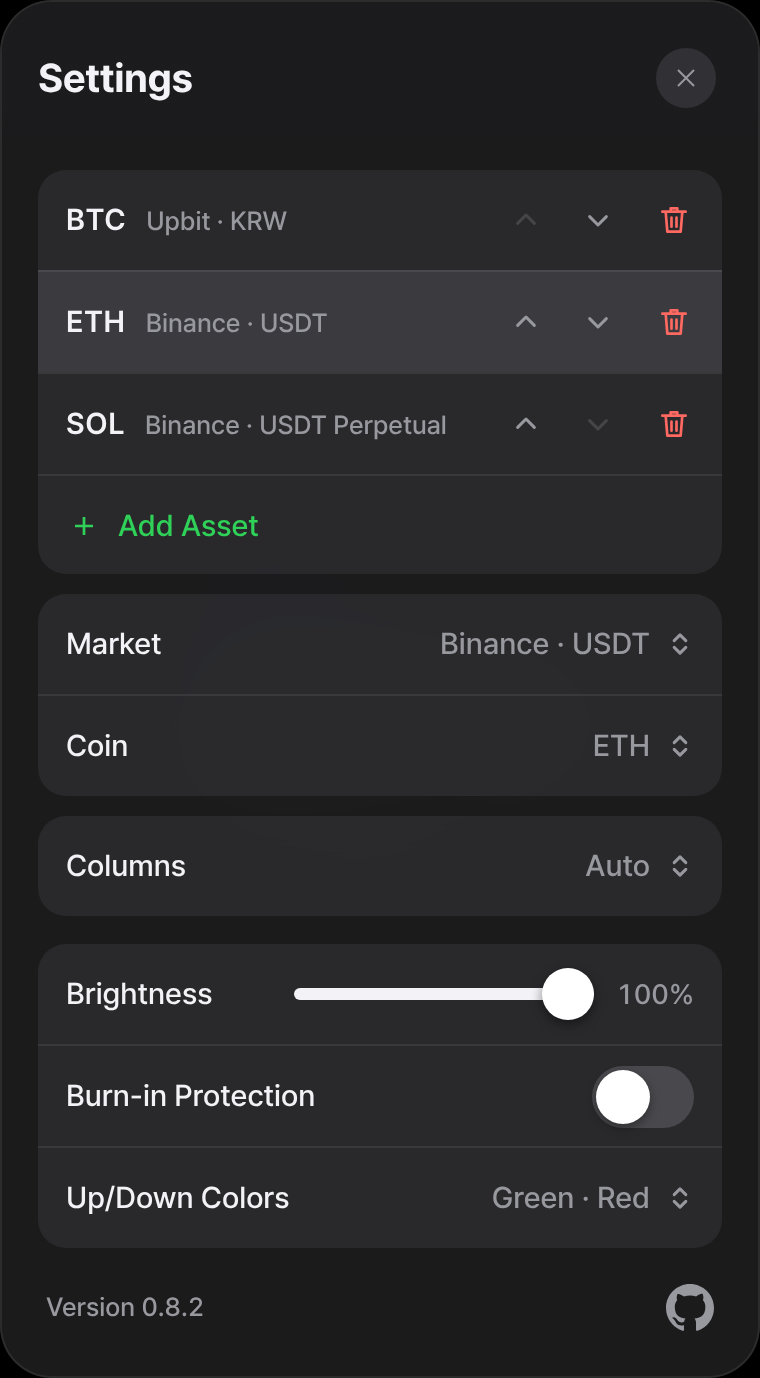
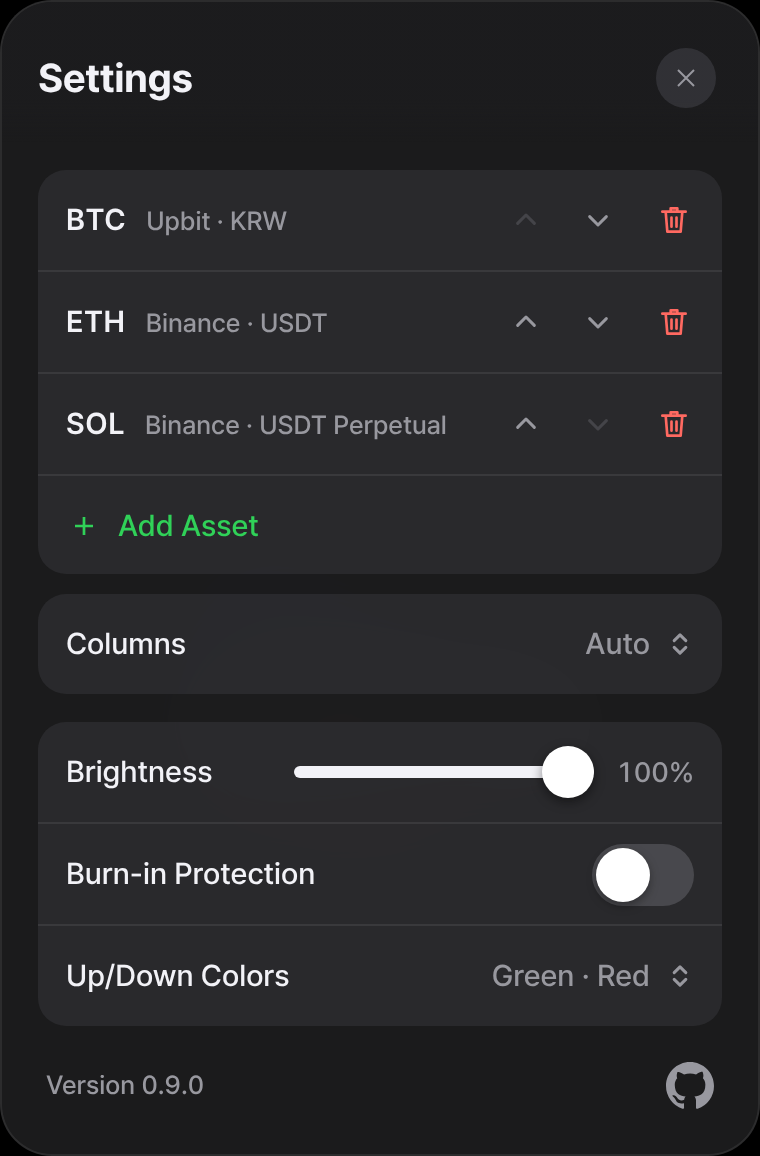
Paraglide 3 and Playwright 1.65, latest stable; settings screenshots folded
Dependencies follow their latest stable releases: Paraglide JS 3.2.2
(and the message-format plugin 4.6.0) and Playwright 1.65.1. Paraglide 3
compiles into virtual modules during the Vite build; the unit tests
still compile to src/paraglide first.

The touch-tip browser check now keeps a margin around its four seconds,
since the test clock also moves with real time. The settings
screenshots show the panel as it normally opens, with the market and
coin rows folded.

Claude-Session: https://claude.ai/code/session_014Sd3YL2WJ32HMbCc4VV95J

diff --git a/tests/e2e/run.js b/tests/e2e/run.js
@@ -898,9 +898,10 @@ async function statusTipOnTouch(browser, base) {
   const tapDot = () => page.touchscreen.tap(dot.x + dot.width / 2, dot.y + dot.height / 2);
   assert.equal(await shown(), false);
   // A tap opens the detail; it closes by itself after a few seconds.
+  // (The test clock also moves with real time, so the checks keep a margin around the four seconds.)
   await tapDot(); assert.equal(await shown(), true);
-  await page.clock.runFor(3900); assert.equal(await shown(), true);
-  await page.clock.runFor(200); assert.equal(await shown(), false, 'closes by itself');
+  await page.clock.runFor(3000); assert.equal(await shown(), true);
+  await page.clock.runFor(1200); assert.equal(await shown(), false, 'closes by itself');
   // A second tap closes it at once.
   await tapDot(); assert.equal(await shown(), true);
   await tapDot(); assert.equal(await shown(), false, 'second tap closes');

diff --git a/docs/development.md b/docs/development.md
@@ -6,7 +6,7 @@ How to use the board is in the [user guide](guide.md). This document is for chan
 
 ## Development
 
-Node.js 22 or later.
+Node.js 22 or later. Dependencies are kept at their latest stable releases.
 
 ~~~bash
 npm install
@@ -51,7 +51,7 @@ Svelte 5 and Vite. It is a single page, so there is no SvelteKit.
 | `src/app.css` | Styles |
 | `messages/ko.json`, `messages/en.json` | Text for settings and the like (Korean, English) |
 | `project.inlang/settings.json` | Translation settings (languages, base language, message format) |
-| `src/paraglide/` | Code generated from the messages at build time (not in git; do not edit) |
+| `src/paraglide/` | Code generated from the messages by `npm run i18n`, for the unit tests (not in git; do not edit) |
 
 The modules in `src/lib` are plain JavaScript that knows nothing of Svelte or the DOM, and have unit tests.
 
@@ -89,13 +89,13 @@ The modules in `src/lib` are plain JavaScript that knows nothing of Svelte or th
 
 ## Translation
 
-The settings panel, state descriptions and messages are translated with [Paraglide JS](https://github.com/opral/paraglide-js) (2.x, MIT). Messages live under keys named by meaning in `messages/ko.json` and `messages/en.json`, and are compiled into functions at build time (`src/paraglide/`), so only the messages in use ship. Code calls them as `m.settings_title()` or `m.status_retry({ reason, seconds })`.
+The settings panel, state descriptions and messages are translated with [Paraglide JS](https://github.com/opral/paraglide-js) (3.x, MIT). Messages live under keys named by meaning in `messages/ko.json` and `messages/en.json`, and are compiled into functions at build time, so only the messages in use ship. Code calls them as `m.settings_title()` or `m.status_retry({ reason, seconds })`.
 
 - **Choosing the language**: the device's preferred languages (`navigator.languages`); English when neither Korean nor English is found. Nothing is stored and there is no setting.
 - **Not translated**: the board (tickers, prices, `KRW`, `USDT`, `PERP`, `1D`, `24H`, the status dot's words) is the same in every language, except how won prices are written (see the price format above).
 - **Plurals**: text that changes with a number, like `1 second` and `2 seconds`, uses a `plural` selector in the message file.
 - **Changing or adding messages**: change both files. `npm test` checks that both have the same keys and values, that none is empty and that the English has no Korean in it; the browser tests check, on an English device, that no Korean is left in the settings panel and that no choice is cut off.
-- **Compiling**: `npm run build` and `npm run dev` compile through the Vite plugin; `npm test` runs `npm run i18n` first. The message-format plugin is fetched from jsDelivr, so the first compile needs the internet.
+- **Compiling**: `npm run build` and `npm run dev` compile in memory through the Vite plugin (virtual modules); `npm test` first runs `npm run i18n`, which writes `src/paraglide/`. The message-format plugin is fetched from jsDelivr, so the first compile needs the internet.
 - **Terms**: 자산 = Asset, 시장 = Market, 코인 = Coin, 티커 = Ticker, 직접 입력 = Other, 가로 칸 수 = Columns, 밝기 = Brightness, 번인 방지 = Burn-in Protection, 등락 색 = Up/Down Colors, 무기한 = Perpetual.
 
 ## Versions
